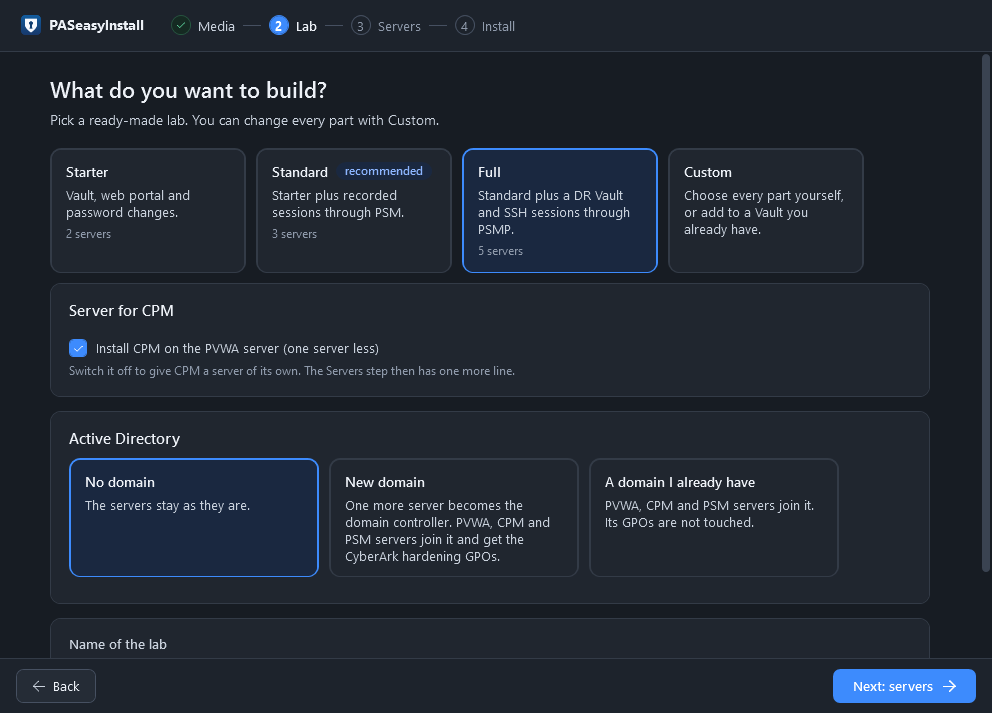
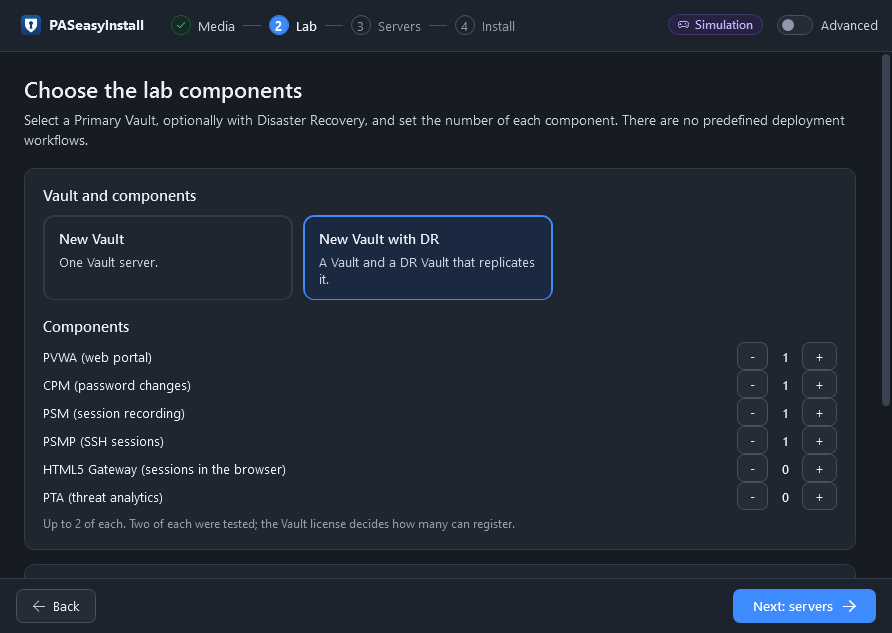
Release 2.0.9: lab-stabilized and validated; notes, docs and Lab-step pictures
- ModuleVersion 2.0.9 and its release notes (manifest and site): DR test Safe, PSM NLA,
  integrations as soon as ready, verification-only retry, read-only re-check on resume,
  DR progress, dependency check, Stop-PASRun lock safety, PSMP prepare-tools, Lab step.
- Docs no longer name the removed Starter/Standard/Full labs; the Lab step pictures show the
  counters (taken from the window with the Mock backend).
- NEXT.md: what is left open after 2.0.9 (from the lab validation).

Pester 696 passed; portable ZIP and Gallery package build.

diff --git a/site-src/release-notes.md b/site-src/release-notes.md
@@ -1,5 +1,37 @@
 # Release notes
 
+## 2.0.9
+
+Lab-stabilized release, validated on Proxmox with CyberArk 15.2 in eight scenarios (window in a real desktop,
+Primary + DR, PSMP + HTML5 Gateway + PTA, new AD domain, two PVWAs and two CPMs, interrupted checks, a failed PTA
+with resume, forced stop). 696 Pester tests pass on Windows PowerShell 5.1.
+
+- **Primary + DR labs finish again.** Since 2.0.8 the DR Vault could replicate the test Safe before its final
+  check started, and that check then waited 15 minutes and failed. Every Primary + DR lab was affected.
+- **PSM post-install no longer fails at random.** About a minute after the Remote Desktop restart, Windows can
+  switch Network Level Authentication on again, after the vendor's *Disable NLA* step has checked it (seen in
+  3 of 5 lab installations). PASeasyInstall now sets it back as the vendor intends and checks the result.
+- **The HTML5 Gateway registration and the PTA trust run as soon as their own servers are ready**, not at the
+  very end and not after the DR Vault. They wait for the Vault without a 3-minute limit, and for everything
+  else installed on the first PVWA server.
+- **A step whose check was cut off can be finished.** When the connection drops while a check is being started
+  (for example on a PSMP or PTA server), the run stops as *Unknown*, as before. *Try this step again*
+  (`Resume-PASRun -RetryStep`) now repeats only that check, never the installation, once the old check has
+  been shown not to be running.
+- **A continued run looks at the finished servers again, read-only.** It checks every finished step instead of
+  skipping whole servers (2.0.8). Nothing is installed again; a check that no longer passes stops the run.
+- **DR replication shows its progress**: phase and elapsed time of the wait (for example *Waiting for the test
+  Safe, 390 of 900 seconds*) instead of a line that looks frozen for up to 15 minutes.
+- **Every dependency is checked before anything is installed.** A wait for something that no server produces,
+  or a real deadlock, stops the run at once with its name.
+- **`Stop-PASRun -Force` keeps the server locks.** A stopped controller does not prove that the work on the
+  servers has stopped. After you reset the lab servers, release the locks with
+  `Stop-PASRun -ReleaseLocksAfterReset -CredentialMap ...`.
+- **PSM for SSH**: the package installation (`unzip`) is its own step, *prepare-tools*, after the read-only
+  server check.
+- **Window:** one way to choose the lab: Primary Vault or Primary + DR and the number of each component. The
+  ready-made labs (Starter, Standard, Full) are gone; an existing Vault and the domain are in Advanced.
+
 ## 2.0.8
 
 - **The Primary Vault is finished when it is ready.** Its replication test safe is created right after it is

diff --git a/Docs/NEXT.md b/Docs/NEXT.md
@@ -259,15 +259,20 @@ Every run assumes clean servers.
 - **Media scan:** only a ZIP whose end is missing is found. A ZIP that is damaged in the middle is found when it
   is unpacked on the server.
 
-### 3.9 Left open after 2.0.8
+### 3.9 Left open after 2.0.9
 
-- **2.0.8 was not run in the lab** (owner tests it): unit tests only. To look at in that run: the Vault line
-  finishes right after "Verify primary"; `verify-primary` takes seconds, not two minutes; *Try this step again*
-  starts only the failed server.
+- **2.0.8 and the lab-stabilized changes were run in the lab on 2026-11-23** (eight scenarios, all passing after
+  the fixes released as 2.0.9). The gateway is no longer entered into PVWA at the very end.
 - **A failed server cannot be tried again while the run is still going.** The buttons come when every other
   server is finished. Trying one server again inside a running run needs a second controller for one lane.
-- **The gateway is entered into PVWA at the very end.** It could be done as soon as PVWA, PSM and the gateway
-  are finished, and shown as a step of the gateway.
+- **Releasing a PSM for SSH lock after a reset** (`Stop-PASRun -ReleaseLocksAfterReset`) uses only the
+  controller key, which a reset server no longer trusts: it warns instead of releasing (the reset server has no
+  lock, so nothing is left behind). It should fall back to the password of `-CredentialMap`.
+- **A run against a locked, already hardened PSMP** fails at the password sign-in before it reaches the lock,
+  so its message names the password, not the lock.
+- **The server check takes 4 to 7 minutes for three Windows servers** (the window stays responsive).
+- **Every Linux check is a detached systemd job** since 2.0.9: safer after a lost connection, about 4 seconds
+  per finished Linux step when a run is continued.
 - **CPM registration damaged in transit** in the two-node lab: see PARALLEL.md, fourth round. If it comes back
   with the NIC offloads off, look at the CPM server's `Casos.Debug.log` and at the path between the nodes.
 

diff --git a/site-src/getting-started/first-lab.md b/site-src/getting-started/first-lab.md
@@ -1,7 +1,7 @@
 # Your first lab
 
-This page builds the **Full** lab: a Vault with a DR Vault, PVWA and CPM on one server, PSM, and PSM for SSH. It
-needs five servers. For a smaller start take **Starter** (Vault, PVWA and CPM: two servers); every step is the same.
+This page builds a full lab: a Vault with a DR Vault, PVWA and CPM on one server, PSM, and PSM for SSH. It
+needs five servers. For a smaller start set PSM and PSM for SSH to 0 and choose *New Vault* (Vault, PVWA and CPM: two servers); every step is the same.
 
 The addresses below are examples. Use your own.
 
@@ -61,10 +61,10 @@ every installer with its version.
 
 ### Lab
 
-Choose **Full**. Leave *Install CPM on the PVWA server* switched on and *No domain* selected. Give the lab a name,
+Choose **New Vault with DR** and set PVWA, CPM, PSM and PSM for SSH to 1. Leave *Install CPM on the PVWA server* switched on and *No domain* selected. Give the lab a name,
 for example `PamLab`.
 
-![Lab step with the Full lab chosen](../assets/window/06-lab.png)
+![Lab step with a Vault, a DR Vault and one of each component](../assets/window/06-lab.png)
 
 ### Servers
 

diff --git a/site-src/servers/roles.md b/site-src/servers/roles.md
@@ -1,6 +1,9 @@
 # Which servers a lab needs
 
-## The ready-made labs
+## Typical labs
+
+The window has no ready-made labs: choose the Vault and the number of each component on the Lab step. These
+are common choices.
 
 | Lab | Servers |
 |---|---|
@@ -35,8 +38,8 @@ memory for all of them at once.
 - **Put the HTML5 Gateway on the PSM for SSH server.**
 - **Leave out what you do not need.** Only the Vault is required, and with *A Vault I already have* not even
   that.
-- **Add later.** Components can be added to a Vault that exists: choose *A Vault I already have* in the Custom
-  lab, or use `Install-PASPVWA`, `Install-PASCPM`, `Install-PASPSM`, `Install-PASPSMP`.
+- **Add later.** Components can be added to a Vault that exists: switch on **Advanced** on the Lab step and choose
+  *Use existing Vault*, or use `Install-PASPVWA`, `Install-PASCPM`, `Install-PASPSM`, `Install-PASPSMP`.
 
 ## Rules
 

diff --git a/site-src/components/dr.md b/site-src/components/dr.md
@@ -7,8 +7,8 @@ DR Vault to a Vault that exists already is not supported.
 Install-PASVault -ComputerName 192.0.2.11 -DRComputerName 192.0.2.12 -MediaPath D:\CyberArk -SecurityProfile Lab -Wait
 ```
 
-In a lab configuration: `-VaultMode PrimaryDR -PrimaryAddress ... -DRAddress ...`. In the window: the **Full**
-lab, or *New Vault with DR* in Custom.
+In a lab configuration: `-VaultMode PrimaryDR -PrimaryAddress ... -DRAddress ...`. In the window: *New Vault with
+DR* on the Lab step.
 
 ## What it needs
 

diff --git a/site-src/components/vault.md b/site-src/components/vault.md
@@ -6,8 +6,8 @@ Installs a **new Primary Vault** on a dedicated Windows Server 2022 that is not 
 Install-PASVault -ComputerName 192.0.2.11 -MediaPath D:\CyberArk -SecurityProfile Lab -Wait
 ```
 
-In a lab configuration: `-VaultMode Primary -PrimaryAddress 192.0.2.11`. In the window: every ready-made lab,
-or *New Vault* in Custom.
+In a lab configuration: `-VaultMode Primary -PrimaryAddress 192.0.2.11`. In the window: *New Vault* or
+*New Vault with DR* on the Lab step.
 
 ## What it needs
 

diff --git a/site-src/components/pta.md b/site-src/components/pta.md
@@ -16,7 +16,7 @@ $cfg = New-PASLabConfiguration -Environment MyLab -VaultMode Primary -PrimaryAdd
                  @{ Type = 'PTA';  Name = 'pta01';  Address = '192.0.2.51'; VaultTimezone = 'Europe/Berlin' })
 ```
 
-In the window: *PTA* in the Custom lab; the time zone is under **Advanced** on the Servers step.
+In the window: the *PTA* counter on the Lab step; the time zone is under **Advanced** on the Servers step.
 
 ## What it needs
 

diff --git a/site-src/components/html5gw.md b/site-src/components/html5gw.md
@@ -19,7 +19,7 @@ $cfg = New-PASLabConfiguration -Environment MyLab -VaultMode Primary -PrimaryAdd
                  @{ Type = 'HTML5GW'; Name = 'psmp01'; Address = '192.0.2.41' })
 ```
 
-In the window: *HTML5 Gateway* in the Custom lab.
+In the window: the *HTML5 Gateway* counter on the Lab step.
 
 ## What it needs
 
